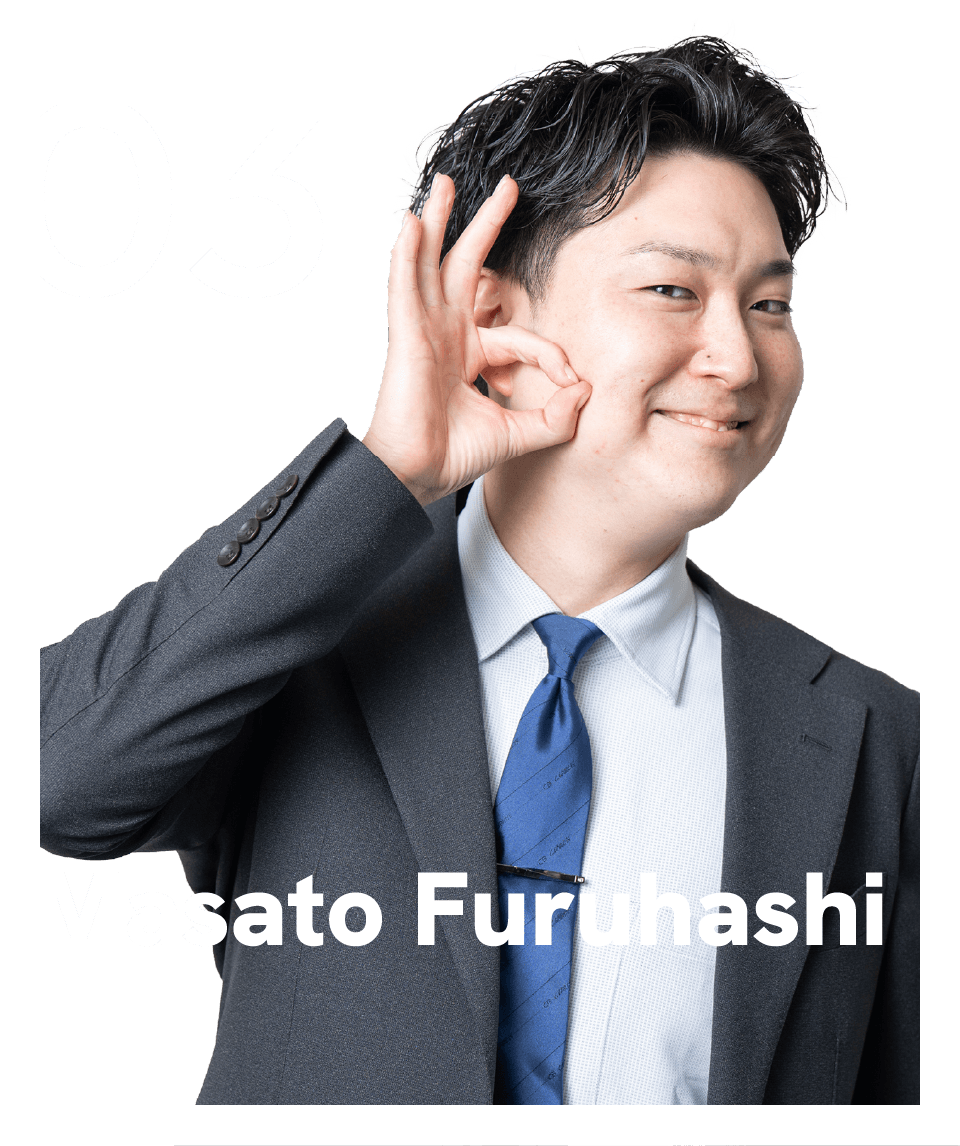
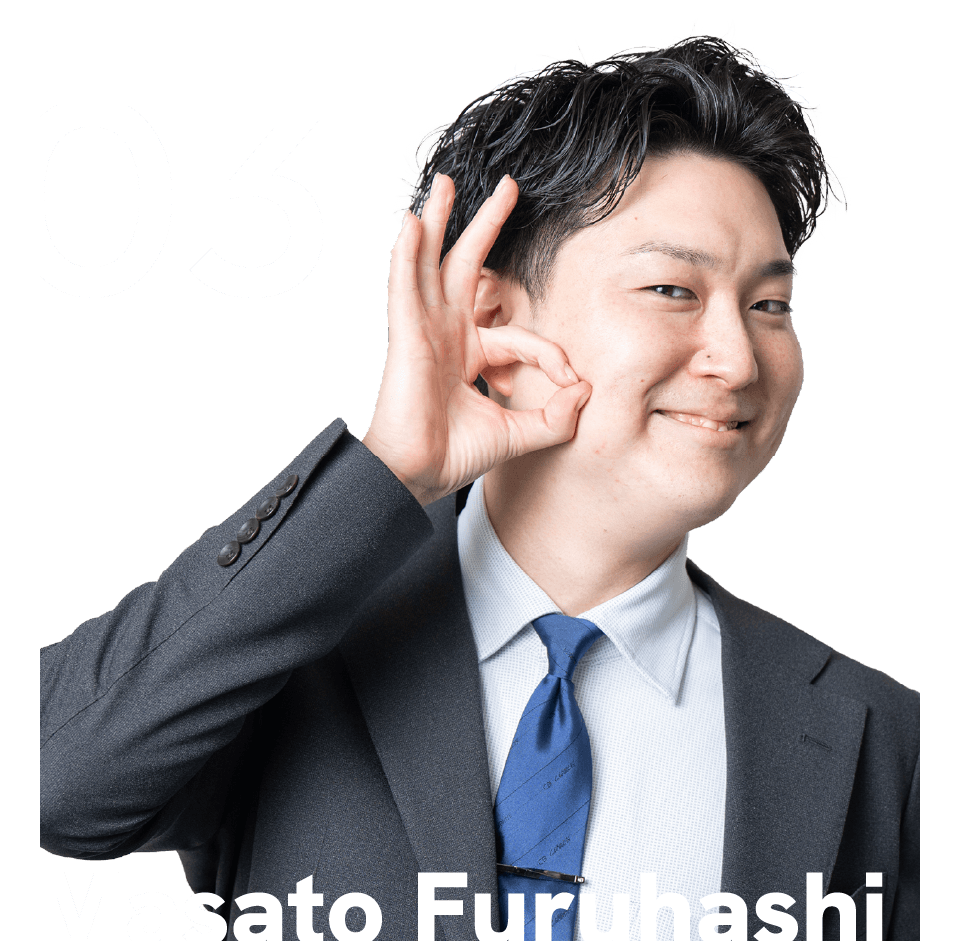
no message

diff --git a/page-service.php b/page-service.php
@@ -6,46 +6,11 @@
         <div class="page-header__inner">
             <p class="page-header__label">_SERVICE</p>
             <h1 class="page-header__title">
-<<<<<<< HEAD
-                <span class="u-highlight">ランギスの<br>サービスは、<br>人です。</span>
-=======
                 <span class="u-highlight u-highlight--green">ランギスのサービスは、<br>人です。</span>
->>>>>>> develop
             </h1>
             <span class="page-header__en-title">SERVICE</span>
         </div>
     </div>
-<<<<<<< HEAD
-    <!-- Service Section -->
-    <section class="section section-service" id="service">
-        <div class="container">
-            <div class="service-card js-animate fade-in-up"
-                style="background-image: url(<?php echo get_theme_file_uri('src/images/service/service_bg.png'); ?>);">
-                <h3 class="section-label js-animate fade-in-up delay-200">SERVICE</h3>
-                <div class="service-card__body">
-                    <div class="service-card__left">
-                        <p class="section-title section-title--vertical-big js-animate fade-in-up delay-200">
-                            <strong>ランギスの<br>サービスは、<br>人です。</strong>
-                        </p>
-                    </div>
-                    <div class="service-card__right">
-                        <div class="service-keywords js-animate fade-in-up delay-300">
-                            <p class="keyword-box">通信商材の知識と扱うノウハウ。</p>
-                            <p class="keyword-box">信頼関係を築く営業力。</p>
-                        </div>
-                        <p class="service-description js-animate fade-in-up delay-400">
-                            ランギスと言えば、人。サービスも、また人です。<br>
-                            通信商材のご提案時の接客も、<br>
-                            アウトソーシングで出向いた先での営業や商談も、<br>
-                            いずれも対するのは人です。<br>
-                            であればAIのように求める答えだけをご提供していては、価値がありません。<br>
-                            だからこそ人を大事にしますし、サービスも人だと言い切っていきます。
-                        </p>
-                        <div class="service-btn-wrapper js-animate fade-in-up delay-500">
-                            <a href="<?php echo home_url('/coming-soon/'); ?>"
-                                class="btn btn--pill btn--service-custom">VIEW MORE</a>
-                        </div>
-=======
     <!-- Service Intro Section -->
     <section class="service-intro">
         <div class="container service-intro__container">
@@ -139,14 +104,12 @@
                             携帯電話をはじめとした通信機器の販売促進、企画立案から現場での販売まで<br>
                             ワンストップでお任せください。
                         </p>
->>>>>>> develop
+
                     </div>
                 </div>
             </div>
         </div>
     </section>
-<<<<<<< HEAD
-=======
 
     <!-- Bottom Section (Replicated from About) -->
     <section class="about-bottom service-bottom">
@@ -168,7 +131,6 @@
             </div>
         </div>
     </section>
->>>>>>> develop
 </main>
 
 <?php get_footer(); ?>

diff --git a/header.php b/header.php
@@ -34,11 +34,7 @@
                     <ul>
                         <li><a href="<?php echo home_url('/about/'); ?>">ABOUT US</a></li>
                         <li><a href="<?php echo home_url('/service/'); ?>">SERVICE</a></li>
-<<<<<<< HEAD
-                        <li><a href="<?php echo home_url('/'); ?>#member">MEMBER</a></li>
-=======
                         <li><a href="<?php echo home_url('/member/'); ?>">MEMBER</a></li>
->>>>>>> develop
                         <li><a href="<?php echo home_url('/company/'); ?>">COMPANY</a></li>
                         <li><a href="<?php echo home_url('/gallery/'); ?>">GALLERY</a></li>
                     </ul>

diff --git a/footer.php b/footer.php
@@ -28,11 +28,7 @@
                 <li><a href="<?php echo home_url('/'); ?>">_TOP</a></li>
                 <li><a href="<?php echo home_url('/about/'); ?>">_ABOUT US</a></li>
                 <li><a href="<?php echo home_url('/service/'); ?>">_SERVICE</a></li>
-<<<<<<< HEAD
-                <li><a href="<?php echo home_url('/#member'); ?>">_MEMBER</a></li>
-=======
                 <li><a href="<?php echo home_url('/member/'); ?>">_MEMBER</a></li>
->>>>>>> develop
             </ul>
             <ul>
                 <li><a href="<?php echo home_url('/company/'); ?>">_COMPANY</a></li>
